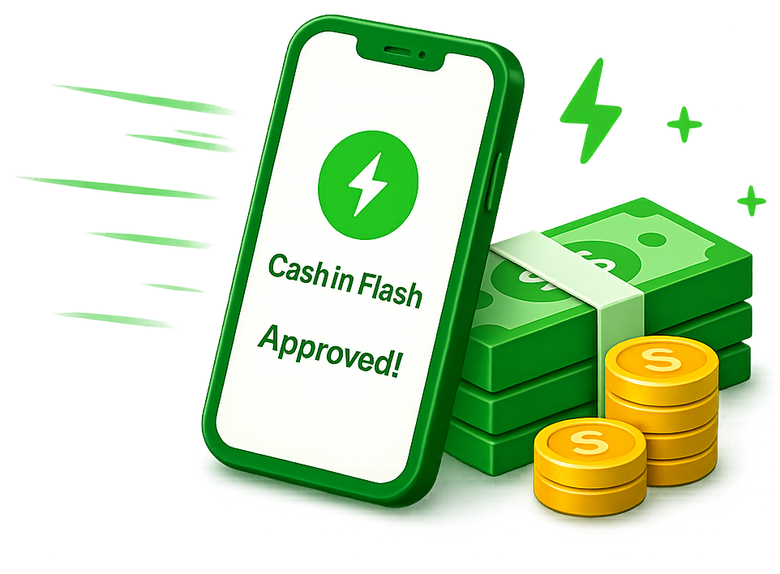
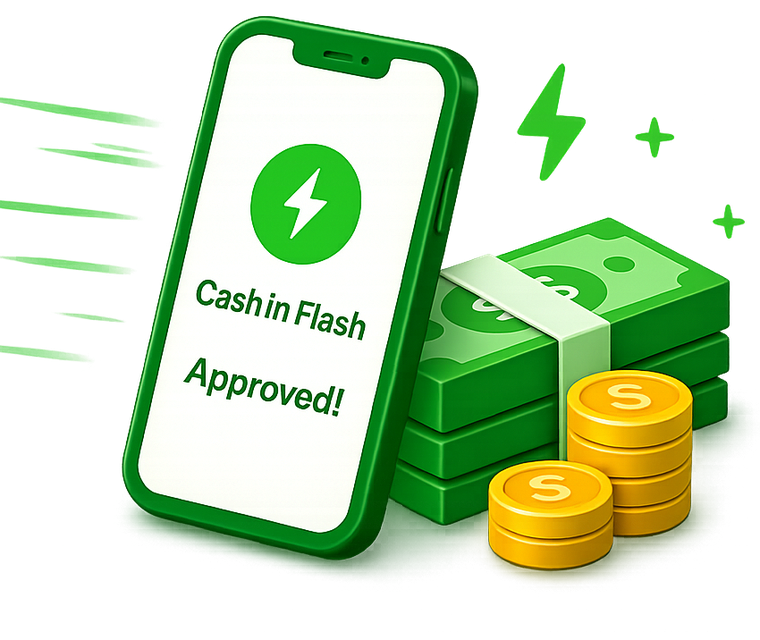
portal: drop 'You're all paid up' headline + size art to match text height
Per request: remove the title/check row entirely (lead with the message),
and make the illustration height-based (190px desktop) so it stands exactly
as tall as the text+chips+button block without enlarging the card. Re-cropped
art to ~1.19 aspect so it can be that tall and still leave room for the two
chips on one row. Bumped css+image to v=20260623g.

diff --git a/frontend/css/dashboard.css b/frontend/css/dashboard.css
@@ -4135,9 +4135,12 @@ html.cif-has-active-loan .dash-sidebar-link[href="/request-loan.html"] {
     linear-gradient(140deg, #2FBF53 0%, #1DA84B 52%, #0F9242 100%);
 }
 .loan-card--paidup .dash-loan-empty { padding: 0; margin: 0; text-align: left; }
-.paidup-hero { display: flex; align-items: center; gap: 20px; padding: 26px 30px; }
+.paidup-hero { display: flex; align-items: center; gap: 24px; padding: 26px 30px; }
 .paidup-illus { flex: 0 0 auto; }
-.paidup-illus img { display: block; width: 226px; height: auto; filter: drop-shadow(0 16px 26px rgba(0,46,20,.30)); }
+/* Height-based so the art stands exactly as tall as the text block beside it
+   (text + chips + button). ~1.19 aspect keeps it narrow enough that the two
+   status chips still share one row. */
+.paidup-illus img { display: block; height: 190px; width: auto; object-fit: contain; filter: drop-shadow(0 16px 26px rgba(0,46,20,.30)); }
 .paidup-content { flex: 1 1 auto; min-width: 0; }
 .paidup-head { display: flex; align-items: center; gap: 13px; margin: 0 0 12px; }
 .paidup-check { flex: 0 0 auto; display: inline-flex; }
@@ -4156,7 +4159,7 @@ html.cif-has-active-loan .dash-sidebar-link[href="/request-loan.html"] {
 /* Mobile: illustration on top, content beneath, full-width CTA. */
 @media (max-width: 899px) {
   .paidup-hero { flex-direction: column; align-items: center; gap: 16px; padding: 24px 22px 26px; text-align: center; }
-  .paidup-illus img { width: 256px; }
+  .paidup-illus img { width: 250px; height: auto; }
   .paidup-head { justify-content: center; gap: 11px; }
   .paidup-title { font-size: 1.8rem; }
   .paidup-content .paidup-text { font-size: .97rem; margin-bottom: 16px; }

diff --git a/frontend/dashboard.html b/frontend/dashboard.html
@@ -12,7 +12,7 @@
   <link rel="preconnect" href="https://fonts.gstatic.com" crossorigin>
   <link rel="stylesheet" href="https://fonts.googleapis.com/css2?family=Inter:wght@400;500;600;700;800&display=swap">
   <link rel="stylesheet" href="/css/portal.css?v=20260623a">
-  <link rel="stylesheet" href="/css/dashboard.css?v=20260623f">
+  <link rel="stylesheet" href="/css/dashboard.css?v=20260623g">
   <script>
     (function(){ try { if (sessionStorage.getItem('cif_has_active_loan') === 'true') { document.documentElement.classList.add('cif-has-active-loan'); } } catch(e){} })();
   </script>
@@ -160,13 +160,9 @@
         <div class="dash-loan-empty" hidden>
           <div class="paidup-hero">
             <div class="paidup-illus" aria-hidden="true">
-              <img src="/images/hero-paidup.png?v=20260623e" alt="" width="800" height="1155">
+              <img src="/images/hero-paidup.png?v=20260623g" alt="" width="760" height="640">
             </div>
             <div class="paidup-content">
-              <div class="paidup-head">
-                <span class="paidup-check" aria-hidden="true"><svg width="34" height="34" viewBox="0 0 24 24" fill="none"><circle cx="12" cy="12" r="11" fill="#fff" fill-opacity=".15" stroke="#fff" stroke-width="1.5"/><path d="M7.2 12.3l3.2 3.2 6.4-6.9" stroke="#fff" stroke-width="2.4" stroke-linecap="round" stroke-linejoin="round"/></svg></span>
-                <h2 class="paidup-title" data-paidup-title>You're all paid up</h2>
-              </div>
               <p class="paidup-text" data-paidup-text>No active loan right now. When you need extra cash, you can request up to $255 quickly and securely.</p>
               <div class="paidup-chips" data-paidup-chips>
                 <span class="paidup-chip"><svg width="14" height="14" viewBox="0 0 24 24" fill="none" stroke="currentColor" stroke-width="2.6" stroke-linecap="round" stroke-linejoin="round" aria-hidden="true"><polyline points="20 6 9 17 4 12"/></svg>No balance due</span>